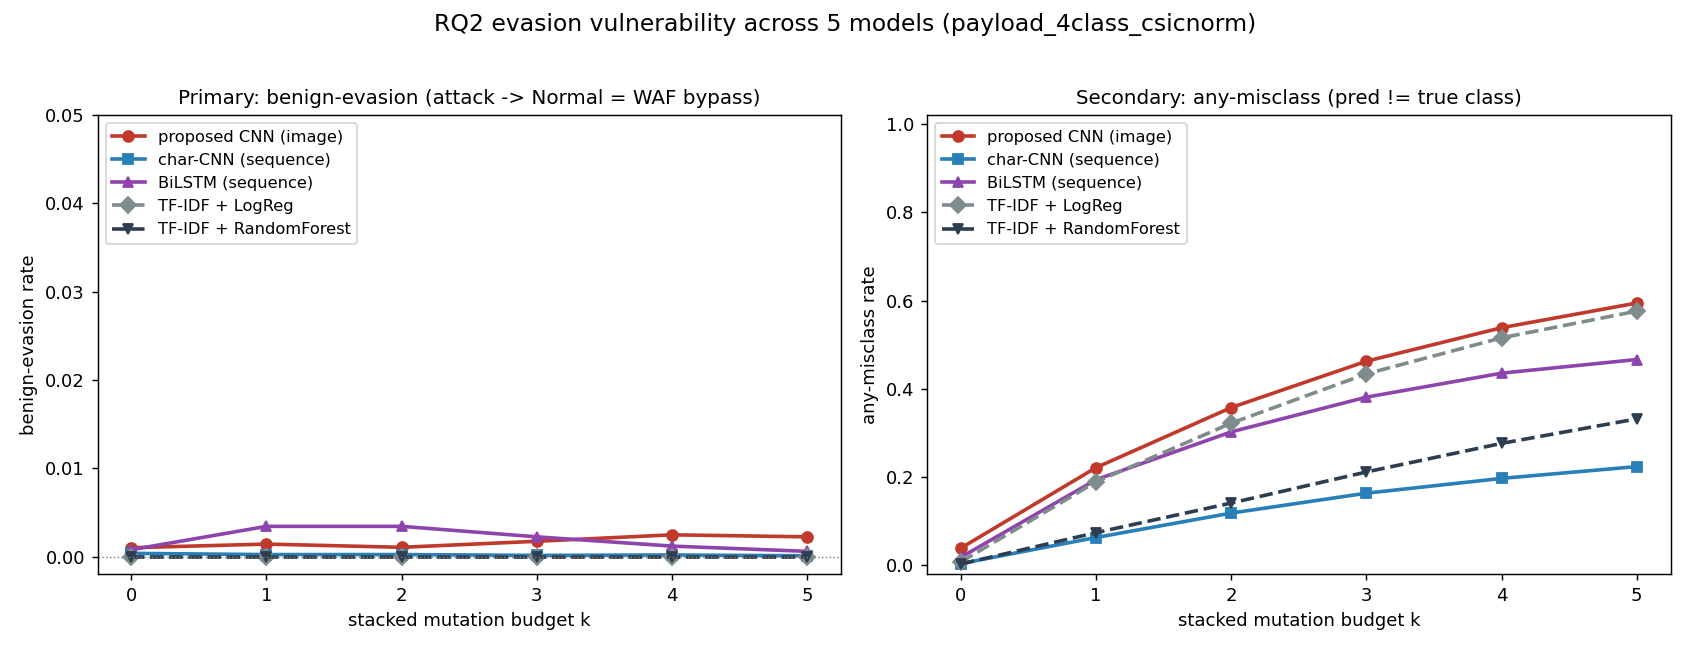
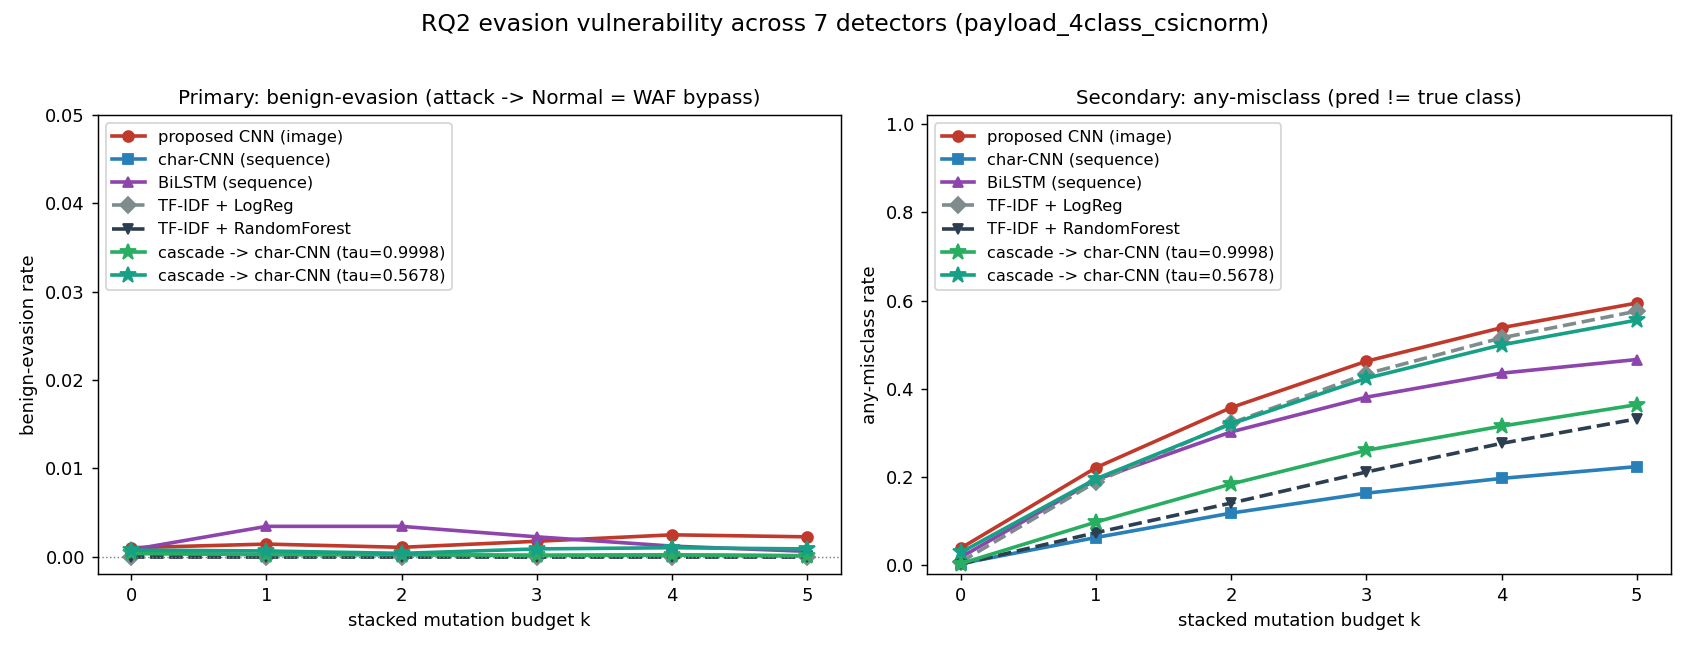
feat(Phase 10): 캐스케이드 GPU 실측 완료 — RGB 1차로 5.07배 가속, 비용 기반 공격 실재 확인
트랙 payload_4class_csicnorm(val 22,628 / test 22,629)에서 arm 7종 실측.
학습 없이 Phase 4/5 의 _bal 체크포인트만 재사용(설계 의도대로 추가 학습 비용 0).

헤드라인(RGB 1차 + 예산 10%):
  트래픽의 8.0% 만 2차로 올려 char-CNN 대비 MCC 0.9940 → 0.9907(-0.33pp)에
  지연은 5.07배 낮다(0.0561 → 0.0111 ms/sample). 융합형(0.0627 ms) 대비 5.6배.
  정확도를 양보하지 않으려면 RGB + match-teacher 가 27.7% 에스컬레이션으로
  char-CNN 을 넘어서면서(MCC 0.9941) 2.52배 빠르다.
  ⚠ 표면 토큰 포화 트랙이므로 정확도 개선은 주장하지 않는다. 기여는 비용 절감폭.

열린 결정 판정:
  - 1차 gray vs RGB → RGB 채택. 정확도뿐 아니라 비용에서도 이긴다
    (char-CNN 급 도달에 gray 는 78.4% 를 넘겨야 했지만 RGB 는 27.7%).
    우려했던 RGB 의 FPR 열세는 운영점에서 재현되지 않음(양쪽 0.0014).
  - Q1 은 1차 모델에 달렸다: gray 는 사전 기준(r<=0.1) 미달이고 speedup 1.11배로
    캐스케이드를 쓸 이유가 사라진다. 구조의 성패는 게이트 품질이 좌우한다.

Q4/Q5 (회피, 운영점 2개):
  - 캐스케이드의 회피 강건성이 tau 로 두 단독 모델 사이를 이동한다(any-misclass
    0.364 <-> 0.556, char-CNN 0.224 / CNN 0.594). "연속 스펙트럼"이 공격 하에서도 성립.
  - 비용 기반 공격이 실재: 저에스컬레이션 운영점에서 2.54% → 5.50%(2.17배)로
    예산 5% SLA 가 깨진다. 정확도 지표로는 안 보이는 열화.
    반대로 78% 운영점은 증가 여지가 없어 1.02배 — 싸게 돌수록 공격 표면이 커진다.

미결(후속 1순위): 확신도 게이트가 오답을 15~20배 과잉 포착한다.
  oracle 은 1.87%(RGB)면 상한에 닿는데 실측 게이트는 27.7% 를 쓴다.
  엔트로피/마진 게이트·temperature scaling 으로 최대 -25.8pp 여지.

실측 중 고친 것:
  - measure_latency 가 단발 측정(warmup 3/repeats 10)이라 실행 간 60% 흔들렸고
    gray budget 5% 의 speedup 이 9.30배로 부풀려졌다(재측정 7.05배).
    5라운드 x 20회 중앙값으로 변경 후 변동 0.7% 이내 → 전 arm 재실측.
  - run_evasion 의 tag 에 운영점 tau 축이 없어 서로 덮어쓸 구조였다(5eede2f 와 같은
    실패 모드). --tau 지정 실행에 _tau 접미사 부여 + JSON 에 tau 기록.
[…]

diff --git a/src/attacks/compare_evasion.py b/src/attacks/compare_evasion.py
@@ -42,17 +42,44 @@ MODEL_STYLE = [
     ("tfidf_rf",     "TF-IDF + RandomForest",  "#2c3e50", "v--"),
 ]
 
+# 캐스케이드(Phase 10)는 τ 마다 **다른 운영점**이라 모델명 하나로 고정할 수 없다.
+# 그래서 산출 파일을 glob 으로 찾아 라벨을 파일 안의 τ 로 만든다(τ 하드코딩 금지 —
+# 운영점을 새로 재면 그림이 자동으로 따라오게).
+CASCADE_COLORS = ["#27ae60", "#16a085", "#f39c12"]
+
 
 def load_stacked(track: str, model: str):
     """모델별 stacked 결과를 (k리스트, benign-evasion, any-misclass) 로 로드한다."""
     path = RESULTS_DIR / f"evasion_{track}_{model}_stacked.json"
     if not path.exists():
         return None
-    rows = json.loads(path.read_text(encoding="utf-8"))["results"]
+    return _parse_stacked(path)[0]
+
+
+def _parse_stacked(path: Path):
+    """stacked JSON 하나를 ((k, be, am), meta) 로 읽는다."""
+    doc = json.loads(path.read_text(encoding="utf-8"))
+    rows = doc["results"]
     ks = [r["budget_k"] for r in rows]
     be = [r["asr_mutated"] for r in rows]
     am = [r["anymis_mutated"] for r in rows]
-    return ks, be, am
+    return (ks, be, am), doc
+
+
+def discover_cascade_runs(track: str):
+    """캐스케이드 회피 결과를 찾아 (라벨, 색, 스타일, 곡선) 목록으로 만든다.
+
+    라벨에 τ 를 넣는 이유: 캐스케이드는 τ 하나로 "CNN 급 ↔ char-CNN 급" 사이를 오간다.
+    운영점을 표기하지 않으면 같은 이름의 곡선 두 개가 왜 다른지 그림에서 알 수 없다.
+    """
+    runs = []
+    for i, path in enumerate(sorted(RESULTS_DIR.glob(f"evasion_{track}_cascade*_stacked.json"))):
+        curve, doc = _parse_stacked(path)
+        tau = doc.get("tau")
+        stage2 = "bilstm" if doc.get("model", "").endswith("bilstm") else "char-CNN"
+        label = f"cascade -> {stage2}" + (f" (tau={tau:.4f})" if tau is not None else "")
+        runs.append((label, CASCADE_COLORS[i % len(CASCADE_COLORS)], "*-", curve))
+    return runs
 
 
 def main() -> None:
@@ -77,6 +104,12 @@ def main() -> None:
         ax_am.plot(ks, am, style, color=color, lw=2, ms=6, label=label)
         found.append((label, be[-1], am[-1]))
 
+    # 캐스케이드 운영점들을 같은 축에 얹는다(Phase 10 을 RQ2 비교에 편입).
+    for label, color, style, (ks, be, am) in discover_cascade_runs(args.track):
+        ax_be.plot(ks, be, style, color=color, lw=2, ms=9, label=label)
+        ax_am.plot(ks, am, style, color=color, lw=2, ms=9, label=label)
+        found.append((label, be[-1], am[-1]))
+
     # (좌) 주 지표 — 전부 ~0 임을 보이되, 0 근방 미세차를 보이도록 y 상한을 작게.
     ax_be.set_title("Primary: benign-evasion (attack -> Normal = WAF bypass)", fontsize=11)
     ax_be.set_xlabel("stacked mutation budget k")
@@ -92,7 +125,9 @@ def main() -> None:
     ax_am.set_ylim(-0.02, 1.02)
     ax_am.legend(loc="upper left", fontsize=9)
 
-    fig.suptitle(f"RQ2 evasion vulnerability across 5 models ({args.track})", fontsize=13)
+    # 곡선 수는 캐스케이드 운영점 개수에 따라 달라지므로 제목도 실제 개수로 쓴다.
+    fig.suptitle(f"RQ2 evasion vulnerability across {len(found)} detectors ({args.track})",
+                 fontsize=13)
     fig.tight_layout(rect=[0, 0, 1, 0.96])
     out = FIG_DIR / f"evasion_compare_{args.track}.png"
     out.parent.mkdir(parents=True, exist_ok=True)

diff --git a/src/attacks/run_evasion.py b/src/attacks/run_evasion.py
@@ -383,11 +383,13 @@ def main() -> None:
     t0 = time.perf_counter()
 
     # 대상 모델을 predict 콜러블로 감싼다(모델 종류를 이 지점에서만 분기).
+    # is_cascade 는 저장 tag(운영점 τ 축)에서도 쓰이므로 분기 밖에서 한 번만 정한다.
+    is_cascade = args.model in CASCADE_MODELS
     if args.model in TFIDF_MODELS:
         predict, classes = build_tfidf_predict(args.track, TFIDF_MODELS[args.model],
                                                args.max_features)
         device_note = "cpu(tfidf)"
-    elif args.model in CASCADE_MODELS:
+    elif is_cascade:
         device = get_device()
         stage2 = CASCADE_MODELS[args.model]
         balanced = not args.unbalanced
@@ -438,14 +440,21 @@ def main() -> None:
             print(f"    k={r['budget_k']}  escalation={r.get('escalation_rate', float('nan')):.4f}")
 
     # 저장
-    tag = f"{args.track}_{args.model}"
+    # ⚠ tag 는 실험을 가르는 축을 전부 담아야 한다(커밋 5eede2f 의 RGB ablation 덮어쓰기 사고).
+    #    캐스케이드는 **운영점 τ 가 곧 다른 실험**이다 — 같은 모델이라도 τ 가 다르면
+    #    정확도·에스컬레이션이 전혀 달라지므로, τ 를 직접 지정한 실행은 별도 파일로 남긴다.
+    #    train.py 의 lr 규칙과 같은 관습: 기본 운영점(cascade.py 가 val 에서 확정한 τ)이면 생략.
+    tau_tag = f"_tau{args.tau:g}" if (is_cascade and args.tau is not None) else ""
+    tag = f"{args.track}_{args.model}{tau_tag}"
     RESULTS_DIR.mkdir(parents=True, exist_ok=True)
+    meta = {"track": args.track, "model": args.model, "classes": classes}
+    if is_cascade:
+        meta["tau"] = tau  # 어느 운영점의 결과인지 파일 안에서도 확인 가능하게
     with open(RESULTS_DIR / f"evasion_{tag}_single.json", "w", encoding="utf-8") as f:
-        json.dump({"track": args.track, "model": args.model, "classes": classes,
-                   "results": single}, f, ensure_ascii=False, indent=2)
+        json.dump({**meta, "results": single}, f, ensure_ascii=False, indent=2)
     with open(RESULTS_DIR / f"evasion_{tag}_stacked.json", "w", encoding="utf-8") as f:
-        json.dump({"track": args.track, "model": args.model, "budget": args.budget,
-                   "classes": classes, "results": stacked}, f, ensure_ascii=False, indent=2)
+        json.dump({**meta, "budget": args.budget, "results": stacked},
+                  f, ensure_ascii=False, indent=2)
 
     clean_ref = stacked[0]["asr_mutated"]  # k=0 기준(전체 공격 clean benign-evasion)
     fig_single(single, FIG_DIR / f"evasion_single_{tag}.png",

diff --git a/src/models/cascade.py b/src/models/cascade.py
@@ -268,11 +268,15 @@ def oracle_point(p1: np.ndarray, p2: np.ndarray, y_true: np.ndarray,
 # ---------------------------------------------------------------------------
 @torch.no_grad()
 def measure_latency(net, x: torch.Tensor, device, batch: int,
-                    warmup: int = 3, repeats: int = 10) -> float:
-    """샘플당 순전파 지연(ms)을 측정한다.
+                    warmup: int = 5, repeats: int = 20, rounds: int = 5) -> float:
+    """샘플당 순전파 지연(ms)을 측정한다. **여러 라운드의 중앙값**을 반환한다.
 
     - warmup: 첫 호출에는 CUDA 커널 로딩·메모리 할당 비용이 섞여 과대측정되므로 버린다.
     - GPU 는 비동기 실행이라 synchronize() 없이 재면 시간이 0 에 가깝게 나온다.
+    - ⚠ 왜 중앙값인가: 단발 측정은 GPU 클럭 부스트 상태·다른 프로세스 간섭에 따라
+      실행마다 크게 흔들린다(실측: char-CNN 이 같은 조건에서 0.0555~0.0904 ms, 약 60% 변동).
+      이 Phase 의 헤드라인이 "같은 정확도를 몇 분의 1 비용으로"라 지연이 곧 결론이므로,
+      라운드별 측정치의 중앙값을 써서 이상치 하나가 speedup 을 부풀리지 못하게 막는다.
     - 전처리(텍스트→이미지/바이트) 비용은 제외한 **모델 순전파 기준**이다(두 모델 모두
       동일 기준이라 비교는 공정하며, 전처리는 µs 수준으로 결론을 바꾸지 않는다).
     """
@@ -282,13 +286,16 @@ def measure_latency(net, x: torch.Tensor, device, batch: int,
     if device.type == "cuda":
         torch.cuda.synchronize()
 
-    t0 = time.perf_counter()
-    for _ in range(repeats):
-        net(sample)
-    if device.type == "cuda":
-        torch.cuda.synchronize()
-    elapsed = time.perf_counter() - t0
-    return elapsed / (repeats * len(sample)) * 1000.0
+    per_round = []
+    for _ in range(rounds):
+        t0 = time.perf_counter()
+        for _ in range(repeats):
+            net(sample)
+        if device.type == "cuda":
+            torch.cuda.synchronize()
+        elapsed = time.perf_counter() - t0
+        per_round.append(elapsed / (repeats * len(sample)) * 1000.0)
+    return float(np.median(per_round))
 
 
 # ---------------------------------------------------------------------------

diff --git a/docs/09_cascade_design.md b/docs/09_cascade_design.md
@@ -2,7 +2,7 @@
 
 > 이 문서는 사람이 읽는 **설계·의사결정 기록**입니다.
 > 실제 수치는 `experiments/results/*_cascade_*.json`, 그림은 `docs/figures/models/cascade_curve_*.png`.
-> **상태: 코드 구현·로컬 스모크 완료 / GPU 실측 미실행** (§7 실행 순서 참조).
+> **상태: GPU 실측 완료(2026-07-25, RTX 4080 SUPER) — 결과와 판정은 §9.**
 
 착수 동기: *"char-CNN 의 탐지 정확도와 제안 CNN 의 속도 장점을 결합할 수 없나?"*
 
@@ -183,17 +183,29 @@ python src/imaging/build_image_dataset.py --track payload_4class_csicnorm
 python src/models/train.py --model cnn     --track payload_4class_csicnorm --balance
 python src/models/train.py --model charcnn --track payload_4class_csicnorm --balance
 
-# 2) 캐스케이드 평가(τ 를 val 에서 확정 → test 적용)
+# 2) 캐스케이드 평가(τ 를 val 에서 확정 → test 적용) — §9 가 실제로 돌린 7종
 python src/models/cascade.py --track payload_4class_csicnorm --balance
 python src/models/cascade.py --track payload_4class_csicnorm --balance \
     --select budget --budget 0.05          # 지연 예산 5% 시나리오
-python src/models/cascade.py --track payload_4class_csicnorm --balance --stage2 bilstm
-# 1차를 정확도 최고 CNN(RGB rb/cc/bd, docs/04 §5)으로 — 해당 npz·체크포인트가 있어야 함
 python src/models/cascade.py --track payload_4class_csicnorm --balance \
-    --channels rgb --rgb-encoders raw_byte,char_class,byte_delta
+    --select budget --budget 0.10
+python src/models/cascade.py --track payload_4class_csicnorm --balance --stage2 bilstm
+# 1차를 RGB CNN 으로. ⚠ csicnorm 트랙에는 rb/cc/bd 조합(docs/04 §5 의 최고 정확도)의
+#   npz·체크포인트가 없다 — 있는 것은 **기본 인코더 세트**(raw_byte,char_class,local_entropy
+#   = 파일명 접미사 '_rgb')뿐이다. 그래서 아래처럼 기본값으로 돌린다.
+#   rb/cc/bd 로 하려면 그 트랙의 npz 빌드 + CNN 재학습이 선행돼야 한다.
+python src/models/cascade.py --track payload_4class_csicnorm --balance --channels rgb
+python src/models/cascade.py --track payload_4class_csicnorm --balance --channels rgb \
+    --select budget --budget 0.05
+python src/models/cascade.py --track payload_4class_csicnorm --balance --channels rgb \
+    --select budget --budget 0.10
 
 # 3) RQ2 회피 실험에 하이브리드 편입(같은 공격·같은 파이프라인)
+#    회피 경로는 gray 이미지 전용이므로 1차는 gray 다. 운영점을 바꿔 두 번 잰다
+#    (Q5 비용 공격은 '싸게 도는' 저에스컬레이션 운영점에서만 관찰된다 — §9.5).
 python src/attacks/run_evasion.py --model cascade --track payload_4class_csicnorm
+python src/attacks/run_evasion.py --model cascade --track payload_4class_csicnorm \
+    --tau 0.5677664577960968               # = budget 5% 운영점(cascade JSON 의 selected_tau)
 python src/attacks/compare_evasion.py --track payload_4class_csicnorm
 
 # 4) 상보성 분석에 편입(기존 스크립트 그대로)
@@ -208,23 +220,160 @@ python src/models/cascade.py --track payload_4class_csicnorm --balance --smoke -
 
 ## 8. 리스크 / 열린 결정
 
-- [ ] **⚠ 비용 기반 공격 표면(하이브리드 고유 리스크)**: 공격자가 1차 확신도를 낮추는
+- [x] **⚠ 비용 기반 공격 표면(하이브리드 고유 리스크)**: 공격자가 1차 확신도를 낮추는
   페이로드를 대량 생성하면 에스컬레이션이 치솟아 **정확도는 그대로인데 지연만 폭증**한다
   (일종의 알고리즘 복잡도 공격). 정확도 지표로는 절대 안 보인다.
-  → `run_evasion.py` 가 변형 조건별 `escalation_rate` 를 함께 기록하도록 확장해 측정한다(Q5).
-  단독 모델에는 없는 위험이므로, 결과가 어떻든 **논문 한계/고찰에 반드시 서술**한다.
+  → **실측됨(§9.5)**: 저에스컬레이션 운영점에서 2.54% → 5.50%(**2.17배**)로 올라
+  예산 5% SLA 가 공격 하에서 깨진다. 논문 한계/고찰에 서술한다.
 - [ ] **총 학습 비용은 줄지 않는다**: 캐스케이드가 줄이는 것은 **추론 지연**이며, 두 모델을
   모두 학습해야 하므로 학습 비용은 오히려 합산이다. 근거로 인용할 수치는 **추론 처리량**
   (docs/04 §5: RGB CNN 81,964 /s vs char-CNN 6,010 /s)이지 학습 지표(s/epoch)가 아니다.
-- [ ] **1차를 gray 로 쓸지 RGB 로 쓸지**: RGB rb/cc/bd 가 정확도는 높지만(MCC +1.66pp)
-  처리량은 소폭 낮고(92,466→81,964 /s) **FPR 은 오히려 최악(0.0212)** 이다(docs/04 §5).
-  1차 오탐이 많으면 그만큼 2차로 넘어가 비용이 오른다 → 두 조합 모두 실측해 곡선으로 비교한다.
+- [x] **1차를 gray 로 쓸지 RGB 로 쓸지** → **RGB 채택(§9.3)**. 정확도뿐 아니라 **비용에서도**
+  RGB 가 이긴다: char-CNN 급 정확도에 도달하는 데 gray 는 78.4% 를 넘겨야 했지만 RGB 는
+  27.7% 로 충분했다(1차가 정확할수록 넘길 일이 줄어 캐스케이드 전체가 싸진다).
+  우려했던 FPR 열세는 운영점에서 재현되지 않았다(양쪽 모두 0.0014).
 - [ ] **확신도 보정(calibration)**: 1차 CNN 은 class weight + 언더샘플링으로 학습돼 확률이
   잘 보정돼 있지 않다. 게이트는 순위만 쓰므로 원리상 문제없지만, oracle 격차가 크면
   temperature scaling 등 보정을 검토한다.
+  → **격차가 실제로 크다(§9.4)**: oracle 은 1.9%(RGB)만 넘겨도 상한에 닿는데 실측 게이트는
+  같은 정확도에 27.7% 를 쓴다. **후속 1순위 과제**.
 - [ ] **엔트로피 게이트 대안**: 현재 게이트는 max softmax 1종. 예측 엔트로피·상위 2개 마진
   등으로 바꾸면 같은 에스컬레이션에서 더 좋은 라우팅이 될 수 있다(ablation 후보).
+  → §9.4 의 oracle 격차가 이 ablation 의 **상한 이득**을 정량화해 준다(최대 −25.8pp 에스컬레이션).
 - [ ] **대안 설계 — 지식 증류(knowledge distillation)**: char-CNN 을 교사로 제안 CNN 을
   재학습하면 **추론은 CNN 하나뿐**이라 속도 100% 유지 + 파라미터 증가 0. 캐스케이드가
   "두 모델 유지" 비용을 지불하는 것과 대비된다. 캐스케이드 실측 후 비교군으로 검토.
 - [ ] `payload_4class`(원본 Normal) 트랙에서도 같은 곡선을 낼지 결정(현재는 csicnorm 우선).
+
+---
+
+## 9. GPU 실측 결과 (2026-07-25, RTX 4080 SUPER / cu124)
+
+트랙 `payload_4class_csicnorm`, val 22,628 · test 22,629, 클래스
+`[CommandInjection, Normal, SQLInjection, XSS]`. 학습은 하지 않았고 Phase 4/5 의 `_bal`
+체크포인트를 그대로 재사용했다(설계 의도대로 추가 학습 비용 0).
+
+### 9.1 arm 7종 — 전체 결과
+
+`esc`=에스컬레이션 비율(2차 호출 비중), `spd`=2차 단독 대비 배속, `ovh`=1차 단독 대비 비용.
+지연은 모두 **같은 실행 안에서** 잰 값이다(ms/sample, 배치 512 순전파 기준).
+
+| 1차 | 2차 | τ 규칙 | τ | esc | Macro-F1 | MCC | ms/sample | spd | ovh |
+|---|---|---|---|---|---|---|---|---|---|
+| gray | char-CNN | match-teacher | 0.9998 | 78.36% | 0.9954 | 0.9940 | 0.0508 | 1.11× | 7.74× |
+| gray | char-CNN | budget 10% | 0.7509 | 7.46% | 0.9856 | 0.9756 | 0.0108 | 5.23× | 1.64× |
+| gray | char-CNN | budget 5% | 0.5678 | 2.54% | 0.9754 | 0.9579 | 0.0080 | 7.05× | 1.22× |
+| gray | BiLSTM | match-teacher | 0.8099 | 9.98% | 0.9831 | 0.9714 | 0.0212 | 6.92× | 3.23× |
+| **RGB** | char-CNN | match-teacher | 0.9971 | 27.73% | **0.9955** | **0.9941** | 0.0223 | 2.52× | 3.32× |
+| **RGB** | char-CNN | **budget 10%** | 0.9425 | **7.99%** | **0.9934** | **0.9907** | **0.0111** | **5.07×** | 1.68× |
+| **RGB** | char-CNN | budget 5% | 0.7516 | 2.71% | 0.9890 | 0.9837 | 0.0081 | 6.92× | 1.23× |
+
+기준선(같은 test·같은 지표): **1차 단독** gray 0.9676/MCC 0.9418(0.0066 ms) · RGB
+0.9804/MCC 0.9725(0.0066 ms), **2차 단독** char-CNN 0.9954/MCC 0.9940(0.0561 ms) ·
+BiLSTM 0.9838/MCC 0.9736(0.1468 ms), **융합형(두 브랜치 상시)** 0.0627 ms.
+
+설계 성질도 실측으로 확인했다 — 곡선의 양 끝점이 정확히 두 단독 모델이다
+(τ=0 → esc 0.0000/F1 0.9676, τ=1.01 → esc 1.0000/F1 0.9954).
+
+### 9.2 헤드라인 — "같은 정확도를 몇 분의 1 비용으로"
+
+**RGB 1차 + 예산 10%** 를 대표 운영점으로 삼는다:
+
+> 트래픽의 **8.0% 만 2차로 올려** char-CNN 대비 MCC 0.9940 → 0.9907(−0.33pp)에
+> **지연은 5.07배 낮다**(0.0561 → 0.0111 ms/sample). 융합형(0.0627 ms) 대비 5.6배.
+
+정확도를 한 치도 양보하지 않으려면 **RGB + match-teacher** 가 27.7% 에스컬레이션으로
+char-CNN 을 **넘어선다**(0.9955 vs 0.9954, MCC 0.9941 vs 0.9940)면서도 2.52배 빠르다.
+
+⚠ docs/09 §6 의 경고대로 **정확도 개선을 주장하지 않는다**. 이 트랙은 표면 토큰 포화
+상태이고(docs/04 §7), 위 차이는 단일 split 노이즈(±0.11pp)와 같은 자릿수다.
+주장의 무게는 전부 **같은 정확도에서의 비용 절감폭**에 둔다.
+
+### 9.3 Q1~Q3 판정
+
+| # | 질문 | 판정 |
+|---|---|---|
+| Q1 | 낮은 에스컬레이션으로 char-CNN 정확도 도달? | **1차에 달렸다.** gray 는 78.4% 가 필요해 사실상 실패(사전 기준 r≤0.1 미달), RGB 는 27.7%. 다만 **r≤0.1 에서도** RGB 는 char-CNN MCC 의 99.7% 를 회수한다 |
+| Q2 | 실제 지연 이득? | **있다.** 대표 운영점에서 `speedup_vs_stage2_only`=5.07× 이고 `overhead_vs_stage1_only`=1.68× — 1차 단독의 1.7배 비용으로 2차 단독의 정확도를 사실상 산다 |
+| Q3 | 확신도 게이트가 좋은 라우터인가 | **아니다(§9.4).** oracle 대비 격차가 크다 |
+
+Q1 의 gray 실패는 규칙 탓이 아니라 **1차 모델의 확신도 품질** 탓이다. `match-teacher` 는
+"val Macro-F1 ≥ char-CNN" 을 요구하는데, gray CNN 의 확신도가 오답을 잘 골라내지 못해
+그 조건을 만족시키려면 거의 전량을 넘겨야 했다. 이때 speedup 은 1.11배로 **캐스케이드를
+쓸 이유가 사라진다** — 즉 이 구조의 성패는 게이트 품질이 좌우한다.
+
+### 9.4 게이트 품질 — oracle 격차가 이 Phase 의 가장 큰 미결
+
+oracle 라우팅(1차가 틀린 샘플만 정확히 넘겼을 때의 상한):
+
+| 1차 | oracle esc | oracle Macro-F1 | 실측 게이트가 같은 수준에 쓰는 esc |
+|---|---|---|---|
+| gray | 3.96% | 0.9968 | 78.36% (**19.8배**) |
+| RGB | 1.87% | 0.9982 | 27.73% (**14.8배**) |
+
+확신도(max softmax)는 **오답을 15~20배 과잉 포착**한다. 정확도 상한이 아니라 **비용 상한**이
+문제이며, 게이트를 개선하면(엔트로피·상위 2개 마진·temperature scaling) 정확도를 그대로
+두고 에스컬레이션만 최대 −25.8pp 줄일 여지가 있다. §8 의 두 열린 항목이 여기서 정량화됐다.
+
+### 9.5 Q4·Q5 — 회피(RQ2) 하에서의 거동
+
+`run_evasion.py --model cascade` 를 **두 운영점**에서 돌렸다(k=5 누적 변형 기준).
+
+| 운영점 | benign-evasion | any-misclass | esc(clean) | esc(공격 k=5) | 비용 증가 |
+|---|---|---|---|---|---|
+| τ=0.9998 (match-teacher) | 0.0001 | **0.3641** | 78.36% | 79.96%(최대) | 1.02배 |
+| τ=0.5678 (budget 5%) | 0.0009 | **0.5557** | 2.54% | 5.50%(최대) | **2.17배** |
+| — 참고: char-CNN 단독 | 0.0001 | 0.2239 | — | — | — |
+| — 참고: 제안 CNN 단독 | 0.0022 | 0.5944 | — | — | — |
+
+**Q4 판정**: 캐스케이드의 회피 강건성은 **τ 로 두 단독 모델 사이를 이동한다**. 높은 τ 는
+char-CNN 쪽(0.364), 낮은 τ 는 CNN 쪽(0.556). 즉 §2 에서 주장한 "연속 스펙트럼"이
+clean 정확도뿐 아니라 **공격 하 강건성에서도 성립**한다. 다만 τ=0.9998 에서도 char-CNN
+단독(0.224)에 못 미치는데, 원인은 **넘기지 않은 21.6%** 다 — 1차가 확신했기에 남은
+샘플이지만 변형되면 틀린다. "확신도가 높다"가 "변형에 강하다"를 뜻하지 않는다.
+
+**Q5 판정(캐스케이드 고유 리스크)**: 비용 기반 공격이 **실재한다**. 저에스컬레이션
+운영점에서 공격은 정확도를 흔드는 것과 **동시에** 2차 호출을 2.17배로 늘려 예산 5% SLA 를
+깼다(5.50%). 정확도 지표만 보면 안 보이는 열화다. 반대로 이미 78% 를 넘기는 운영점은
+증가 여지가 없어 1.02배에 그친다 — **비용 공격 표면은 캐스케이드가 싸게 돌아갈수록 커진다.**
+운영 시 에스컬레이션 비율을 지표로 모니터링하고 상한 큐를 두는 완화책이 필요하다.
+
+### 9.6 상보성 분석 — clean 에서 새로 잡는 건 없다
+
+`detection_analysis.py --ref cascade --baselines cnn,charcnn,tfidf_rf`(공격 21,907건):
+
+| baseline | 둘 다 탐지 | cascade 만 | baseline 만 | 둘 다 놓침 |
+|---|---|---|---|---|
+| cnn | 21,889 | 10 | 8 | 0 |
+| charcnn | 21,899 | 0 | 0 | 8 |
+| tfidf_rf | 21,899 | 0 | 8 | 0 |
+
+char-CNN 과 **탐지 집합이 완전히 동일**하다(기본 운영점이 78% 를 넘기므로 당연한 귀결).
+docs/04 §8 의 "clean 탐지 상보성 이득 없음" 결론이 캐스케이드에서도 유지된다 —
+이 Phase 의 기여는 탐지 집합 확장이 아니라 **비용 축소**임을 다시 확인한다.
+
+### 9.7 실측 중 고친 것 두 가지 (재현성)
+
+1. **지연 측정이 실행마다 60% 흔들렸다.** 1차 측정에서 char-CNN 이 같은 조건인데
+   0.0555~0.0904 ms 로 튀어 gray budget 5% 의 speedup 이 9.30배로 **부풀려졌다**(재측정 7.05배).
+   원인은 단발 측정(warmup 3·repeats 10)이 GPU 클럭 부스트 상태·타 프로세스 간섭을 그대로
+   받는 것. → `measure_latency` 를 **5라운드 × 20회의 중앙값**으로 바꾸고 전 arm 을 재실측했다.
+   재측정 후 변동은 0.7% 이내(ms1 0.0066~0.0067, char-CNN 0.0561~0.0565).
+   **헤드라인이 속도인 Phase 에서 지연 측정의 분산 관리는 정확도 지표만큼 중요하다.**
+2. **`run_evasion.py` 의 tag 에 τ 축이 없었다.** `evasion_{track}_{model}` 뿐이라 운영점이
+   다른 두 실행이 서로 덮어썼을 것(커밋 5eede2f 의 RGB ablation 사고와 같은 실패 모드).
+   → `--tau` 를 지정한 실행은 `_tau{값}` 접미사로 분리하고(기본 운영점은 생략 — train.py 의
+   lr 규칙과 같은 관습), JSON 안에도 `tau` 를 기록했다. `compare_evasion.py` 는 캐스케이드
+   운영점들을 glob 으로 발견해 라벨의 τ 를 **파일에서 읽어** 그린다(τ 하드코딩 금지).
+
+### 9.8 산출물
+
+```
+experiments/results/payload_4class_csicnorm_cascade[-bilstm]_raw[_rgb][_b0.05|_b0.1]_bal.json  (7종)
+experiments/results/pred_...(같은 tag).npz                                                     (7종)
+experiments/results/evasion_payload_4class_csicnorm_cascade[_tau0.567766]_{single,stacked}.json
+experiments/results/detection_complementarity_payload_4class_csicnorm_cascade.json
+docs/figures/models/cascade_curve_*.png, cm_*.png                                              (각 7종)
+docs/figures/attacks/evasion_{single,stacked}_payload_4class_csicnorm_cascade[_tau...].png
+docs/figures/attacks/evasion_compare_payload_4class_csicnorm.png                               (캐스케이드 2점 추가)
+```
